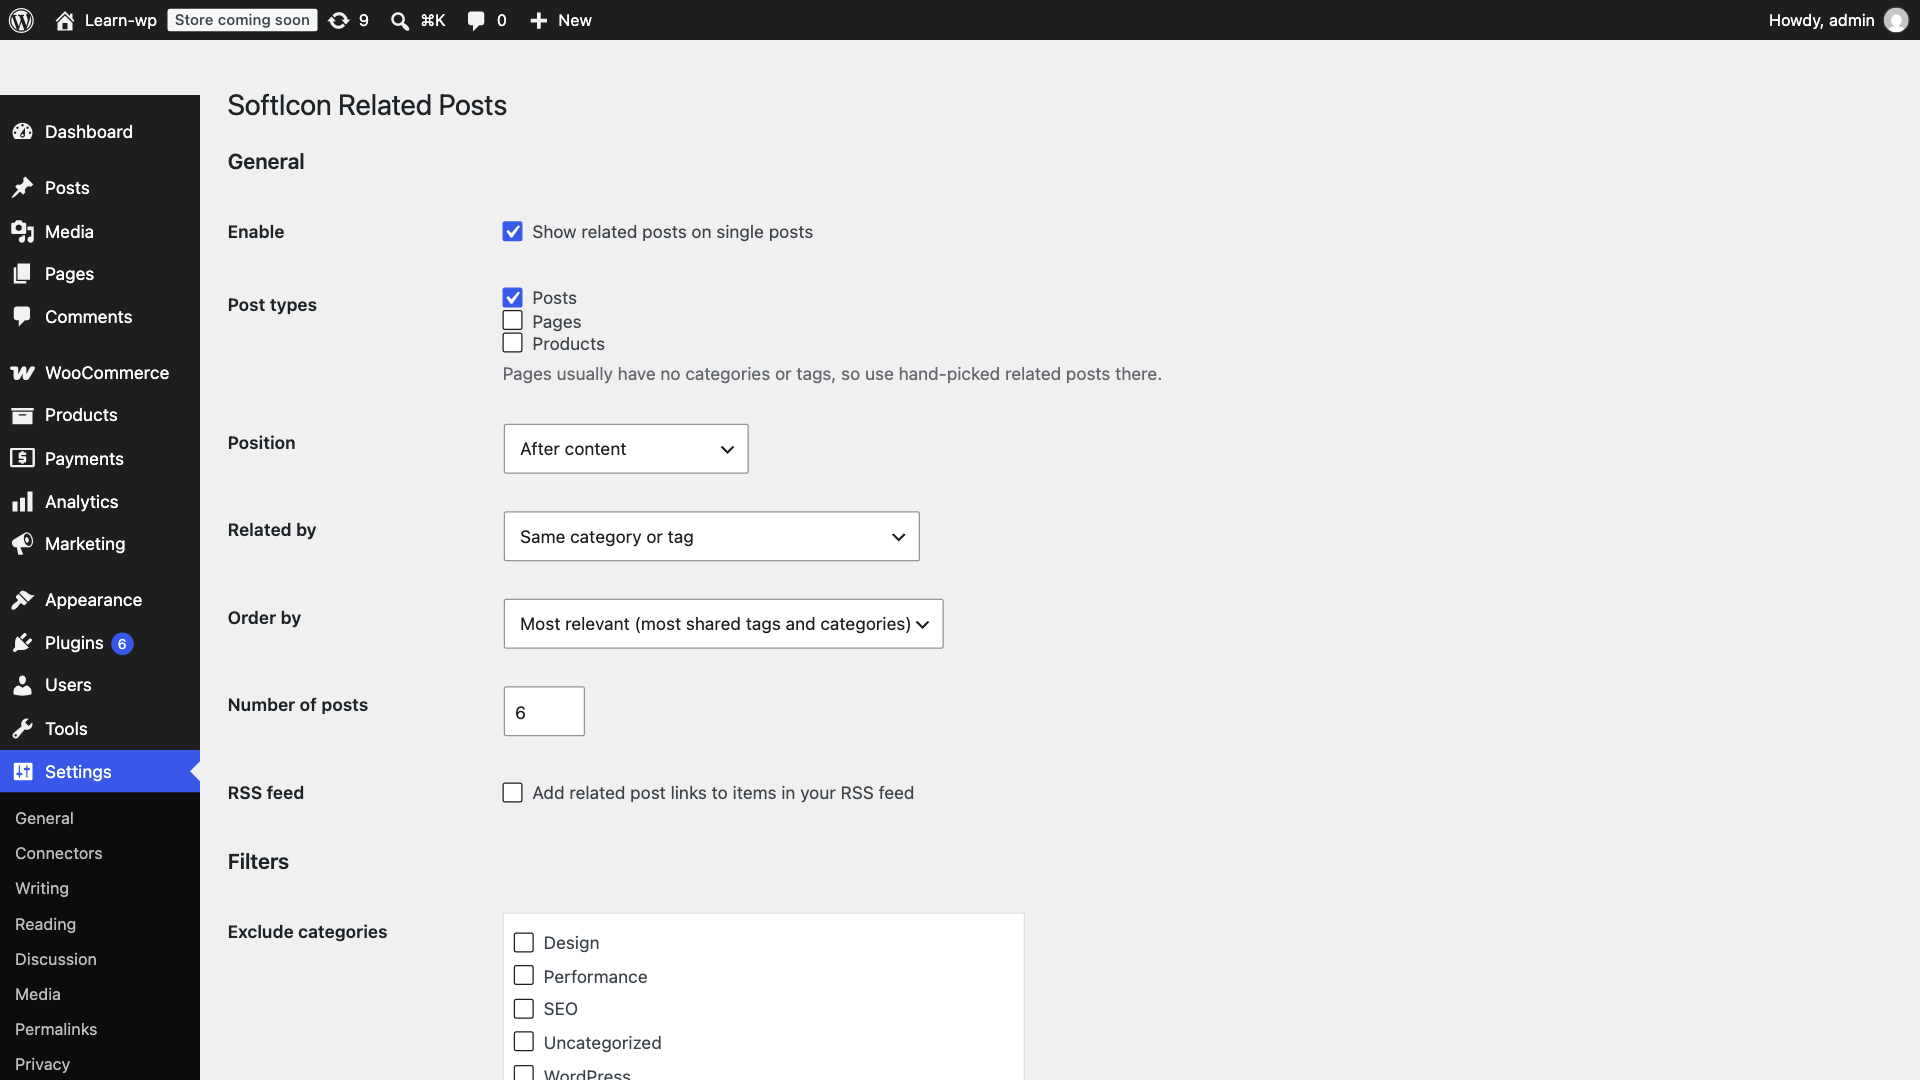
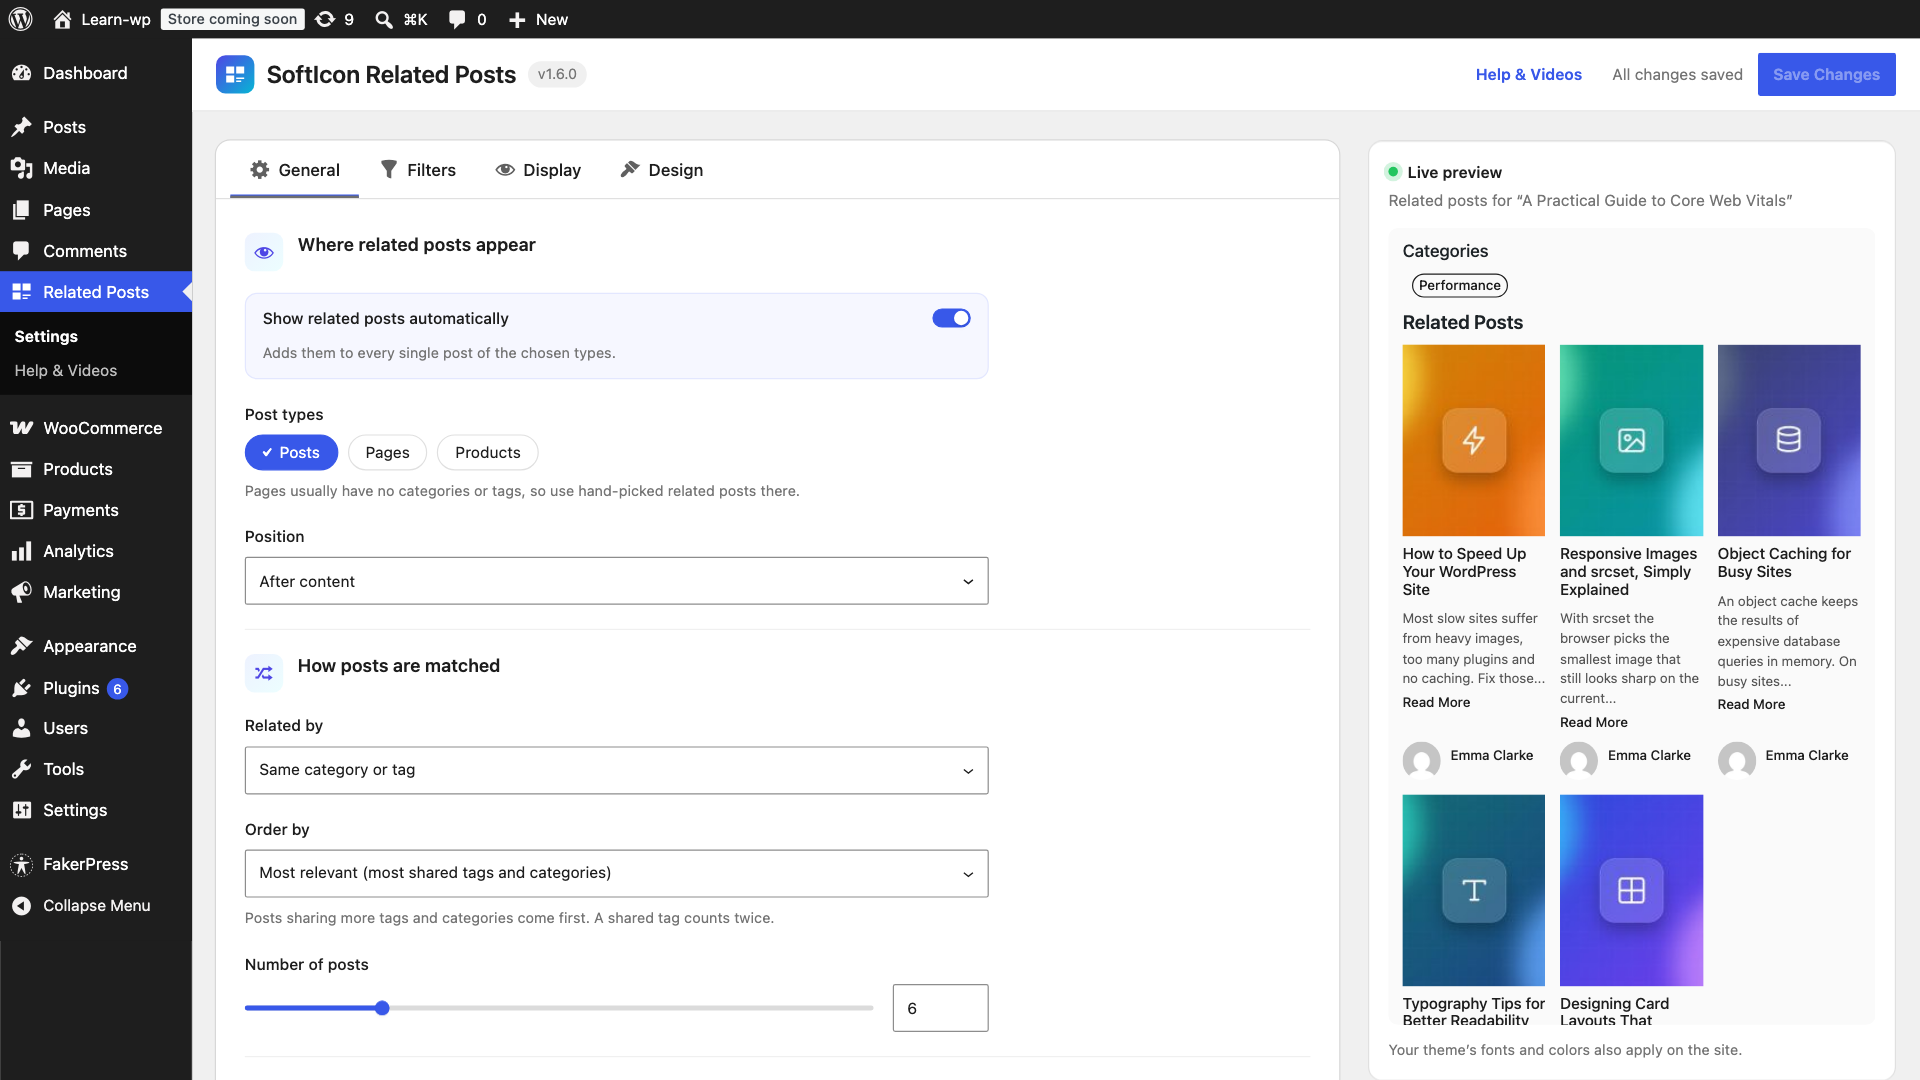
Release 1.6.1: own block editor controls and new settings screenshots
- Replace the bpl-tools imports with the plugin's own color control and editor styles
- Smaller editor stylesheet; build no longer needs ../bpl-tools
- Screenshots 3, 4, 7 and 8 show the new settings page

diff --git a/src/Components/Backend/Settings/Style/Style.js b/src/Components/Backend/Settings/Style/Style.js
@@ -9,28 +9,28 @@ const Style = ({ attributes, setAttributes }) => {
 	const set = key => val => setAttributes({ [key]: val });
 
 	return <>
-		<PanelBody className='bPlPanelBody' title={__('Layout', 'softicon-related-posts')} initialOpen={true}>
+		<PanelBody title={__('Layout', 'softicon-related-posts')} initialOpen={true}>
 			<SelectControl label={__('Layout', 'softicon-related-posts')} value={value('layout')} options={toOptions(choices.layout)} onChange={set('layout')} __nextHasNoMarginBottom />
 
-			<SelectControl className='mt20' label={__('Image ratio', 'softicon-related-posts')} value={value('imageRatio')} options={toOptions(choices.image_ratio)} onChange={set('imageRatio')} __nextHasNoMarginBottom />
+			<SelectControl className='alrpMt' label={__('Image ratio', 'softicon-related-posts')} value={value('imageRatio')} options={toOptions(choices.image_ratio)} onChange={set('imageRatio')} __nextHasNoMarginBottom />
 		</PanelBody>
 
-		<PanelBody className='bPlPanelBody' title={__('Card', 'softicon-related-posts')} initialOpen={false}>
+		<PanelBody title={__('Card', 'softicon-related-posts')} initialOpen={false}>
 			<SelectControl label={__('Card style', 'softicon-related-posts')} value={value('cardStyle')} options={toOptions(choices.card_style)} onChange={set('cardStyle')} __nextHasNoMarginBottom />
 
-			<RangeControl className='mt20' label={__('Corner radius (px)', 'softicon-related-posts')} value={value('radius')} onChange={set('radius')} min={0} max={40} __nextHasNoMarginBottom />
+			<RangeControl className='alrpMt' label={__('Corner radius (px)', 'softicon-related-posts')} value={value('radius')} onChange={set('radius')} min={0} max={40} __nextHasNoMarginBottom />
 
-			<ToggleControl className='mt20' label={__('Zoom image on hover', 'softicon-related-posts')} checked={!!value('hoverZoom')} onChange={set('hoverZoom')} __nextHasNoMarginBottom />
+			<ToggleControl className='alrpMt' label={__('Zoom image on hover', 'softicon-related-posts')} checked={!!value('hoverZoom')} onChange={set('hoverZoom')} __nextHasNoMarginBottom />
 		</PanelBody>
 
-		<PanelBody className='bPlPanelBody' title={__('Colors', 'softicon-related-posts')} initialOpen={false}>
+		<PanelBody title={__('Colors', 'softicon-related-posts')} initialOpen={false}>
 			<ColorControl label={__('Title', 'softicon-related-posts')} value={value('titleColor')} onChange={set('titleColor')} />
 
-			<ColorControl className='mt20' label={__('Text', 'softicon-related-posts')} value={value('textColor')} onChange={set('textColor')} />
+			<ColorControl className='alrpMt' label={__('Text', 'softicon-related-posts')} value={value('textColor')} onChange={set('textColor')} />
 
-			<ColorControl className='mt20' label={__('Card background', 'softicon-related-posts')} value={value('cardBg')} onChange={set('cardBg')} />
+			<ColorControl className='alrpMt' label={__('Card background', 'softicon-related-posts')} value={value('cardBg')} onChange={set('cardBg')} />
 
-			<p className='mt20 description'>{__('Leave colors empty to use your theme colors.', 'softicon-related-posts')}</p>
+			<p className='alrpMt description'>{__('Leave colors empty to use your theme colors.', 'softicon-related-posts')}</p>
 
 			{/* ColorControl has no clear button, unset the colors so the settings page applies again. */}
 			<Button className='alrpResetBtn' variant='secondary' onClick={() => setAttributes({ titleColor: undefined, textColor: undefined, cardBg: undefined })}>{__('Reset colors', 'softicon-related-posts')}</Button>

diff --git a/src/Components/Panel/ColorControl.js b/src/Components/Panel/ColorControl.js
@@ -1,10 +1,8 @@
 import { __ } from '@wordpress/i18n';
 import { Button, ColorPicker, Dropdown, PanelRow } from '@wordpress/components';
 import { useSelect } from '@wordpress/data';
-import Label from '../../../../bpl-tools/Components/Label/Label';
-import '../../../../bpl-tools/Components/ColorControl/ColorControl.scss';
+import './ColorControl.scss';
 
-// Same UI as bpl-tools ColorControl, imported directly so the bpl-tools index (and its code editor) stays out of the bundle.
 // palette: list of color strings, used outside the block editor where its store isn't loaded
 const ColorControl = ({ className = '', label, value = '', onChange, palette }) => {
 	const editorColors = useSelect(select => {
@@ -13,24 +11,20 @@ const ColorControl = ({ className = '', label, value = '', onChange, palette }) 
 	}, [palette]);
 	const themeColors = palette ? palette.map(color => ({ color })) : editorColors;
 
-	return <PanelRow className={className}>
-		<Label className=''>{label}</Label>
+	return <PanelRow className={`alrpColorControl ${className}`}>
+		<span className='alrpColorLabel'>{label}</span>
 
-		<Dropdown className='bPlDropdownContainer bPlColor' contentClassName='bPlDropdownPopover' popoverProps={{ placement: 'top-end' }}
+		<Dropdown className='alrpColorDropdown' contentClassName='alrpColorPopover' popoverProps={{ placement: 'top-end' }}
 			renderToggle={({ isOpen, onToggle }) => <>
-				<div className='bPlColorButtonContainer'>
-					<button type='button' className='bPlColorButton' onClick={onToggle} aria-expanded={isOpen} aria-label={label} style={{ backgroundColor: value || 'transparent' }} />
-				</div>
+				<button type='button' className='alrpSwatch' onClick={onToggle} aria-expanded={isOpen} aria-label={label} style={{ '--alrp-swatch': value || 'transparent' }} />
 
-				{value && <Button className='bPlResetVal' icon='image-rotate' label={__('Clear', 'softicon-related-posts')} onClick={() => onChange(undefined)} />}
+				{value && <Button className='alrpColorClear' icon='image-rotate' size='small' label={__('Clear', 'softicon-related-posts')} onClick={() => onChange(undefined)} />}
 			</>}
 			renderContent={({ onClose }) => <>
 				<ColorPicker color={value || ''} onChangeComplete={c => onChange(`rgba(${c.rgb.r}, ${c.rgb.g}, ${c.rgb.b}, ${c.rgb.a})`)} />
 
-				{themeColors.length ? <div className='bPlThemeColors'>
-					{themeColors.map(({ color }) => <div key={color} className='bPlColorButtonContainer'>
-						<button type='button' className='bPlColorButton' aria-label={color} style={{ backgroundColor: color }} onClick={() => { onChange(color); onClose(); }} />
-					</div>)}
+				{themeColors.length ? <div className='alrpColorPalette'>
+					{themeColors.map(({ color }) => <button key={color} type='button' className='alrpSwatch alrpSwatchSmall' aria-label={color} style={{ '--alrp-swatch': color }} onClick={() => { onChange(color); onClose(); }} />)}
 				</div> : null}
 			</>}
 		/>

diff --git a/src/Components/Backend/Settings/General/General.js b/src/Components/Backend/Settings/General/General.js
@@ -20,23 +20,23 @@ const General = ({ attributes, setAttributes }) => {
 	const resetAll = () => setAttributes(Object.keys(attributes).reduce((acc, key) => ({ ...acc, [key]: undefined }), {}));
 
 	return <>
-		<PanelBody className='bPlPanelBody' title={__('Query', 'softicon-related-posts')} initialOpen={true}>
+		<PanelBody title={__('Query', 'softicon-related-posts')} initialOpen={true}>
 			<RangeControl label={__('Number of posts', 'softicon-related-posts')} value={value('posts')} onChange={set('posts')} min={1} max={24} __nextHasNoMarginBottom />
 
-			<SelectControl className='mt20' label={__('Related by', 'softicon-related-posts')} value={value('relation')} options={toOptions(choices.relation)} onChange={set('relation')} __nextHasNoMarginBottom />
+			<SelectControl className='alrpMt' label={__('Related by', 'softicon-related-posts')} value={value('relation')} options={toOptions(choices.relation)} onChange={set('relation')} __nextHasNoMarginBottom />
 
-			<SelectControl className='mt20' label={__('Order by', 'softicon-related-posts')} value={value('orderby')} options={toOptions(choices.orderby)} onChange={set('orderby')} __nextHasNoMarginBottom />
+			<SelectControl className='alrpMt' label={__('Order by', 'softicon-related-posts')} value={value('orderby')} options={toOptions(choices.orderby)} onChange={set('orderby')} __nextHasNoMarginBottom />
 		</PanelBody>
 
-		<PanelBody className='bPlPanelBody' title={__('Display', 'softicon-related-posts')} initialOpen={false}>
+		<PanelBody title={__('Display', 'softicon-related-posts')} initialOpen={false}>
 			<TextControl label={__('Section title', 'softicon-related-posts')} value={value('title')} onChange={set('title')} __nextHasNoMarginBottom />
 
-			<RangeControl className='mt20' label={__('Columns', 'softicon-related-posts')} value={value('columns')} onChange={set('columns')} min={1} max={6} __nextHasNoMarginBottom />
+			<RangeControl className='alrpMt' label={__('Columns', 'softicon-related-posts')} value={value('columns')} onChange={set('columns')} min={1} max={6} __nextHasNoMarginBottom />
 
-			{toggles.map(([key, label]) => <ToggleControl key={key} className='mt20' label={label} checked={!!value(key)} onChange={set(key)} __nextHasNoMarginBottom />)}
+			{toggles.map(([key, label]) => <ToggleControl key={key} className='alrpMt' label={label} checked={!!value(key)} onChange={set(key)} __nextHasNoMarginBottom />)}
 		</PanelBody>
 
-		<PanelBody className='bPlPanelBody' title={__('Defaults', 'softicon-related-posts')} initialOpen={false}>
+		<PanelBody title={__('Defaults', 'softicon-related-posts')} initialOpen={false}>
 			<p>{__('Options you have not changed here follow Related Posts → Settings.', 'softicon-related-posts')}</p>
 
 			<Button className='alrpResetBtn' variant='secondary' onClick={resetAll}>{__('Reset to settings page values', 'softicon-related-posts')}</Button>

diff --git a/src/Components/Panel/ColorControl.scss b/src/Components/Panel/ColorControl.scss
@@ -1,0 +1,54 @@
+.alrpColorControl {
+	display: flex;
+	align-items: center;
+	gap: 8px;
+
+	.alrpColorLabel {
+		margin-right: auto;
+	}
+}
+
+.alrpColorDropdown {
+	display: flex;
+	flex-direction: row-reverse;
+	align-items: center;
+	gap: 2px;
+}
+
+// The chosen color sits on a checkerboard so transparent and semi-transparent values stay visible.
+.alrpSwatch {
+	flex-shrink: 0;
+	width: 30px;
+	height: 30px;
+	padding: 0;
+	border: 1px solid #dcdcde;
+	border-radius: 50%;
+	background: linear-gradient(var(--alrp-swatch), var(--alrp-swatch)), repeating-conic-gradient(#dcdcde 0 25%, #fff 0 50%) 0 0 / 10px 10px;
+	cursor: pointer;
+	transition: transform 0.15s ease;
+
+	&:hover {
+		transform: scale(1.08);
+	}
+
+	&:focus-visible {
+		outline: 2px solid var(--wp-admin-theme-color, #3858e9);
+		outline-offset: 2px;
+	}
+}
+
+.alrpSwatchSmall {
+	width: 24px;
+	height: 24px;
+}
+
+.alrpColorPopover .components-popover__content {
+	max-width: 260px;
+}
+
+.alrpColorPalette {
+	display: flex;
+	flex-wrap: wrap;
+	gap: 6px;
+	padding: 0 16px 16px;
+}

diff --git a/src/editor.scss b/src/editor.scss
@@ -7,3 +7,34 @@
 .alrpResetBtn {
 	margin-top: 8px;
 }
+
+.alrpMt {
+	margin-top: 16px;
+}
+
+// Two equal-width tabs.
+.alrpTabs .components-tab-panel__tabs {
+	display: flex;
+	background: #fff;
+	border-bottom: 1px solid #e0e0e0;
+
+	.components-tab-panel__tabs-item {
+		flex: 1;
+		justify-content: center;
+		font-weight: 500;
+	}
+}
+
+// Sentence-case labels, matching the settings page.
+.alrpTabs {
+	.components-base-control__label,
+	.components-base-control .components-input-control__label.components-input-control__label {
+		font-size: 13px;
+		font-weight: 400;
+		text-transform: none;
+	}
+
+	p.alrpMt {
+		margin-top: 20px;
+	}
+}

diff --git a/src/Components/Backend/Edit.js b/src/Components/Backend/Edit.js
@@ -4,7 +4,6 @@ import { Disabled, Placeholder } from '@wordpress/components';
 import ServerSideRender from '@wordpress/server-side-render';
 import Settings from './Settings/Settings';
 import { blockIcon } from '../../utils/icons';
-import '../../../../bpl-tools/Components/style.scss';
 
 const Edit = (props) => {
 	const { attributes, setAttributes, context } = props;

diff --git a/src/Components/Backend/Settings/Settings.js b/src/Components/Backend/Settings/Settings.js
@@ -6,7 +6,7 @@ import { tabs } from '../../../utils/options';
 
 const Settings = ({ attributes, setAttributes }) => {
 	return <InspectorControls>
-		<TabPanel className='bPlTabPanel' activeClass='activeTab' tabs={tabs}>
+		<TabPanel className='alrpTabs' tabs={tabs}>
 			{(tab) => <>
 				{'general' === tab.name && <General {...{ attributes, setAttributes }} />}
 

diff --git a/softicon-related-posts.php b/softicon-related-posts.php
@@ -3,7 +3,7 @@
 * 
 * Plugin Name: SoftIcon Related Posts – Similar Posts & Internal Linking
 * Description: Displays related posts based on categories or tags to enhance engagement and navigation.
-* Version: 1.6.0
+* Version: 1.6.1
 * Requires at least: 6.3
 * Requires PHP: 7.1
 * Author: Al Amin
@@ -42,7 +42,7 @@ class ALRP_Related_posts{
     }
 
     public function defined_constants() {
-        define('ALRP_PLUGIN_VERSION', '1.6.0');
+        define('ALRP_PLUGIN_VERSION', '1.6.1');
         define('ALRP_PLUGIN_PATH', plugin_dir_path(__FILE__));
         define('ALRP_PLUGIN_URL', plugin_dir_url(__FILE__));
         define('ALRP_PLUGIN_ASSETS', plugin_dir_url(__FILE__) . 'assets/');
